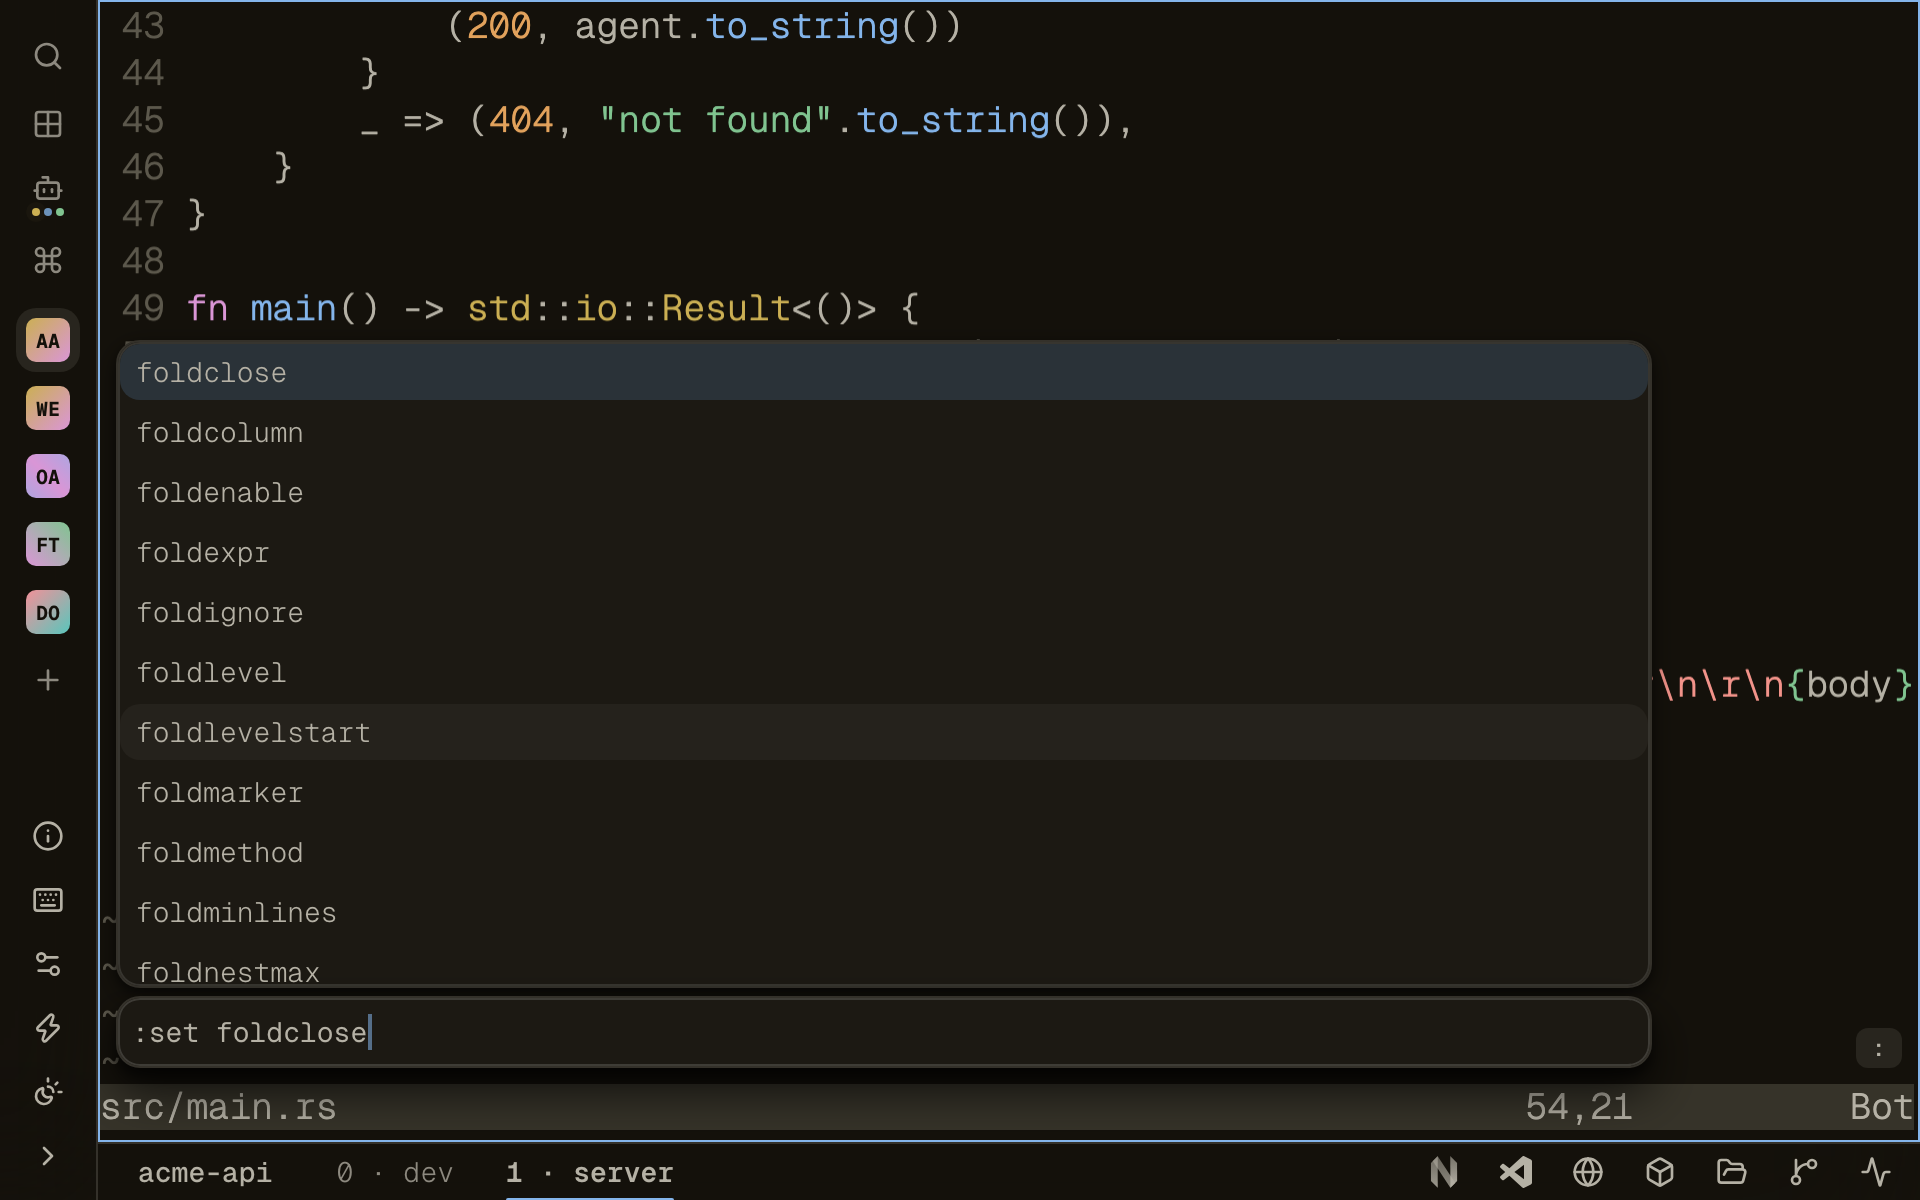
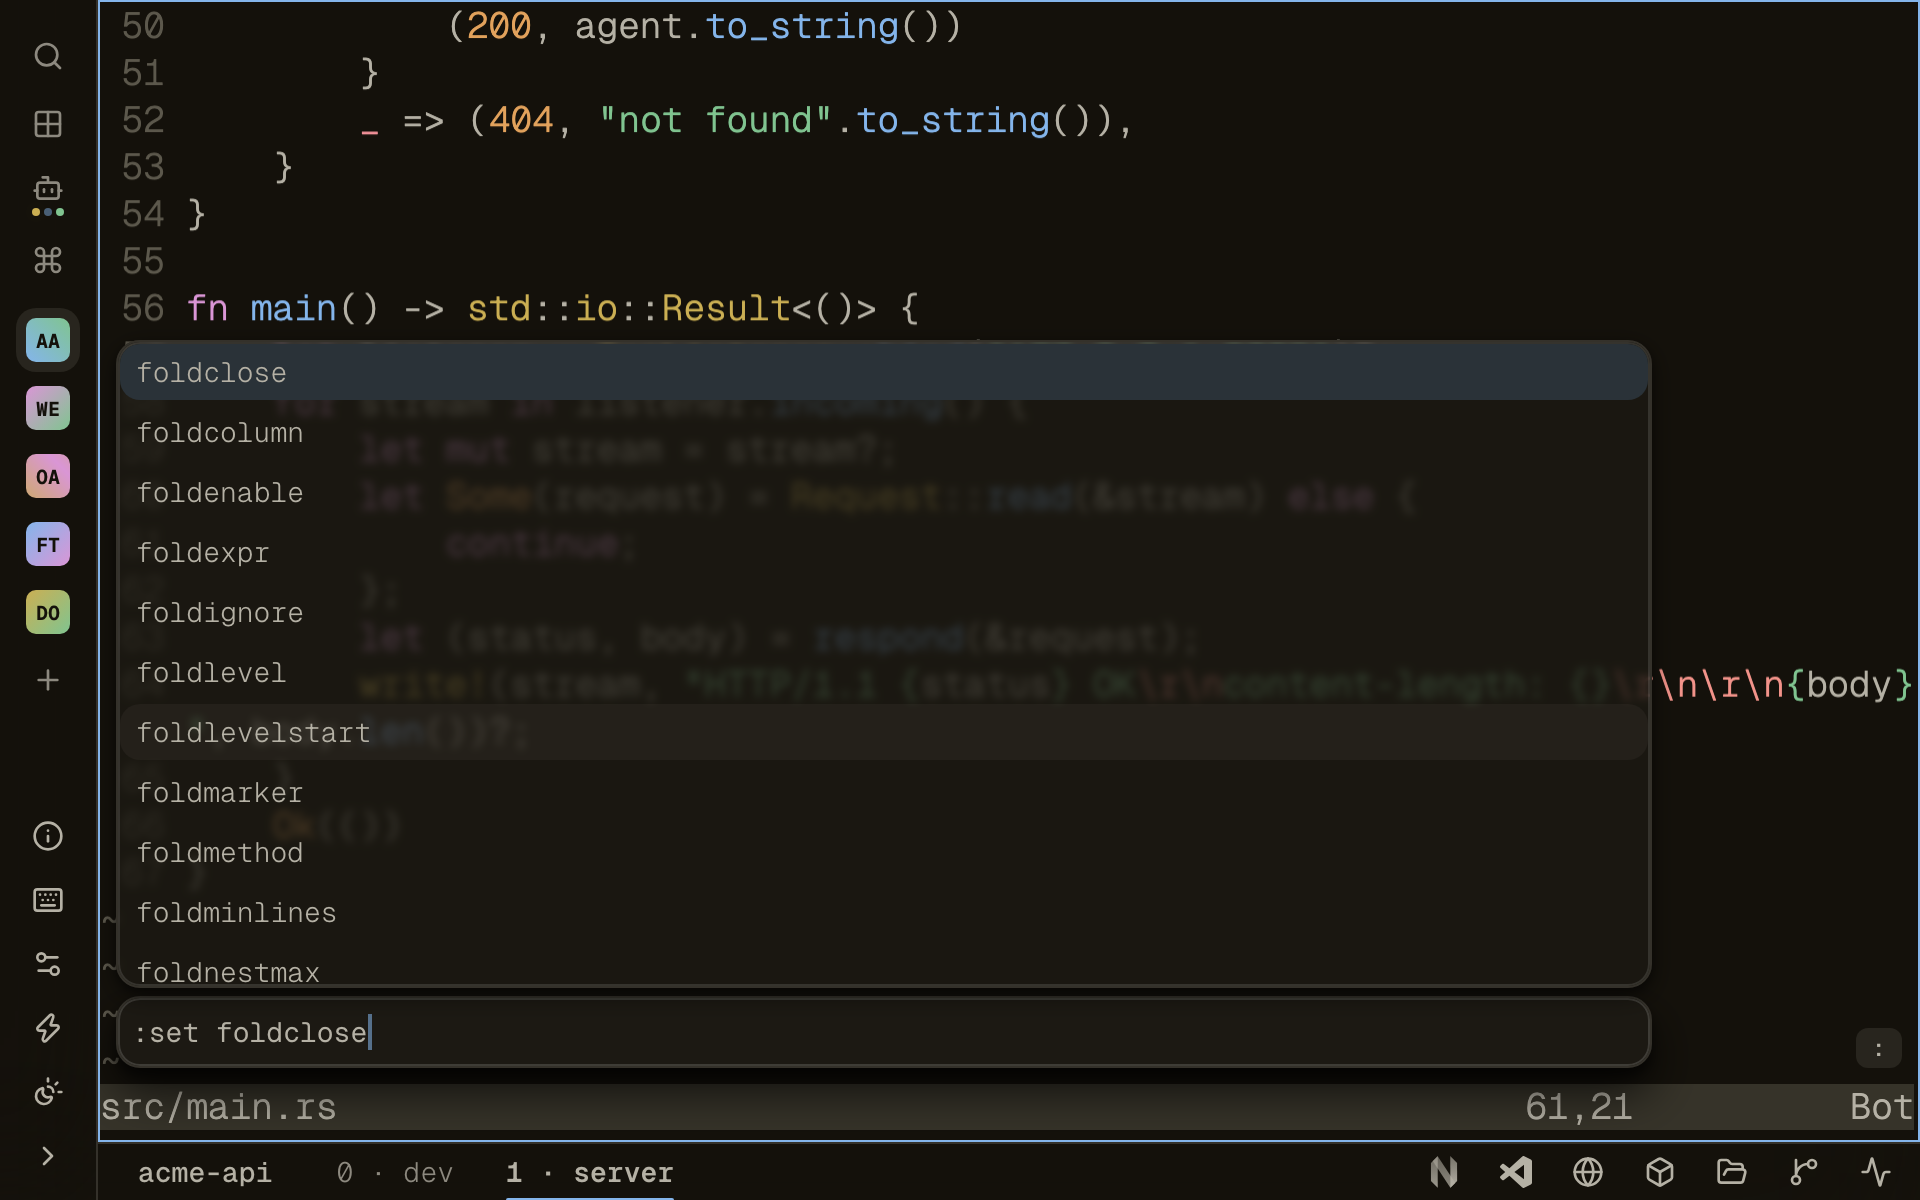
Docs: tree-sitter, blend, and fuller docs in the Neovim screenshots

Changed region(s): [[0.0, 0.2467, 0.0625, 0.5242], [0.0625, 0.0, 0.0938, 0.2775]]

diff --git a/frontend/docs-screenshots.ts b/frontend/docs-screenshots.ts
@@ -7,7 +7,7 @@
 import assert from 'node:assert/strict';
 import { chromium, type Page } from 'playwright';
 import { execFileSync } from 'node:child_process';
-import { mkdirSync, rmSync, writeFileSync } from 'node:fs';
+import { existsSync, mkdirSync, rmSync, writeFileSync } from 'node:fs';
 import { homedir, tmpdir, userInfo } from 'node:os';
 import path from 'node:path';
 import { waitForAsync } from './browser-test-utils';
@@ -93,6 +93,27 @@ write('tests/orders.test.ts', `import { expect, test } from 'bun:test';\n\ntest.
 // needs the standard library's sources, which a toolchain without `rust-src`
 // lacks: point RUST_SRC_PATH at them.
 assert(process.env.RUST_SRC_PATH, 'RUST_SRC_PATH is required (the Rust standard library sources)');
+
+// Hover docs color their code through tree-sitter, which needs a Rust parser
+// and queries: NVIM_TS_RUNTIME names a directory holding parser/ and queries/,
+// else the user's own Neovim is asked for one.
+const treesitterRuntime =
+  process.env.NVIM_TS_RUNTIME ||
+  execFileSync(
+    'nvim',
+    [
+      '--headless',
+      '-c',
+      "lua io.stdout:write(vim.fs.dirname(vim.fs.dirname(vim.api.nvim_get_runtime_file('parser/rust.so', false)[1] or '')))",
+      '-c',
+      'q',
+    ],
+    { encoding: 'utf8' },
+  ).trim();
+assert(
+  existsSync(path.join(treesitterRuntime, 'queries', 'rust', 'highlights.scm')),
+  'no Rust tree-sitter parser and queries found: set NVIM_TS_RUNTIME',
+);
 const router = path.join(home, 'router');
 mkdirSync(path.join(router, 'src'), { recursive: true });
 writeFileSync(path.join(router, 'Cargo.toml'), '[package]\nname = "router"\nversion = "0.1.0"\nedition = "2024"\n');
@@ -128,7 +149,14 @@ impl Request {
         Some(Request { method, path, headers })
     }
 
-    /// The value of a header, by lowercase name.
+    /// Returns the value of a header.
+    ///
+    /// Names are matched in lowercase.\
+    /// The last value wins if repeated.
+    ///
+    /// ${'```'}
+    /// request.header("host")
+    /// ${'```'}
     fn header(&self, name: &str) -> Option<&str> {
         self.headers.get(name).map(String::as_str)
     }
@@ -170,8 +198,16 @@ writeFileSync(
 vim.diagnostic.enable(false)
 vim.o.statusline = '%<%f %h%w%m%r%=%-14.(%l,%c%V%) %P'
 vim.o.signcolumn = 'no'
+-- Translucent menus and floats, blurring what is behind them.
+vim.o.pumblend = 25
+vim.o.winblend = 25
 vim.o.autocomplete = true
 vim.o.completeopt = 'menuone,noselect,fuzzy,popup'
+vim.opt.runtimepath:append(${JSON.stringify(treesitterRuntime)})
+vim.api.nvim_create_autocmd('FileType', {
+  pattern = 'rust',
+  callback = function() vim.treesitter.start() end,
+})
 vim.lsp.config('rust_analyzer', {
   cmd = { 'rust-analyzer' },
   cmd_env = { RUST_SRC_PATH = ${JSON.stringify(process.env.RUST_SRC_PATH)} },
@@ -457,9 +493,18 @@ try {
         // At the top of the window, so the menu opens below the cursor.
         await page.keyboard.type('ztorequest.');
         await page.waitForTimeout(2500);
-        await page.keyboard.press('Control+n');
-        await page.waitForTimeout(500);
-        completed = (await page.locator('[aria-current="true"]').count()) > 0;
+        // Down to header(), whose docs fill the card beside the menu.
+        for (let step = 0; step < 8 && !completed; step++) {
+          await page.keyboard.press('Control+n');
+          await page.waitForTimeout(400);
+          const current = await page
+            .locator('[aria-current="true"]')
+            .first()
+            .textContent({ timeout: 500 })
+            .catch(() => null);
+          completed = !!current?.includes('header(');
+        }
+        await page.waitForTimeout(1500);
         if (!completed) {
           await escape();
           await command('e!');

diff --git a/AGENTS.md b/AGENTS.md
@@ -65,7 +65,8 @@ needs a group in `docs/scripts/cli-reference.mjs`), and `just docs-screenshots`
 (`frontend/docs-screenshots.ts`, demo sessions on a browser-test stack; it
 must show nothing of the host, so the process viewer shot is scoped to the
 demo session with the user's name masked; its Neovim shots use rust-analyzer,
-which needs `RUST_SRC_PATH` set to the standard library's sources).
+which needs `RUST_SRC_PATH` set to the standard library's sources, and a Rust
+tree-sitter parser with queries, taken from your Neovim or `NVIM_TS_RUNTIME`).
 
 `CHANGELOG.md` at the repo root is the changelog's only source: the docs'
 Changelog page is generated from it when the site loads its config. A change a
